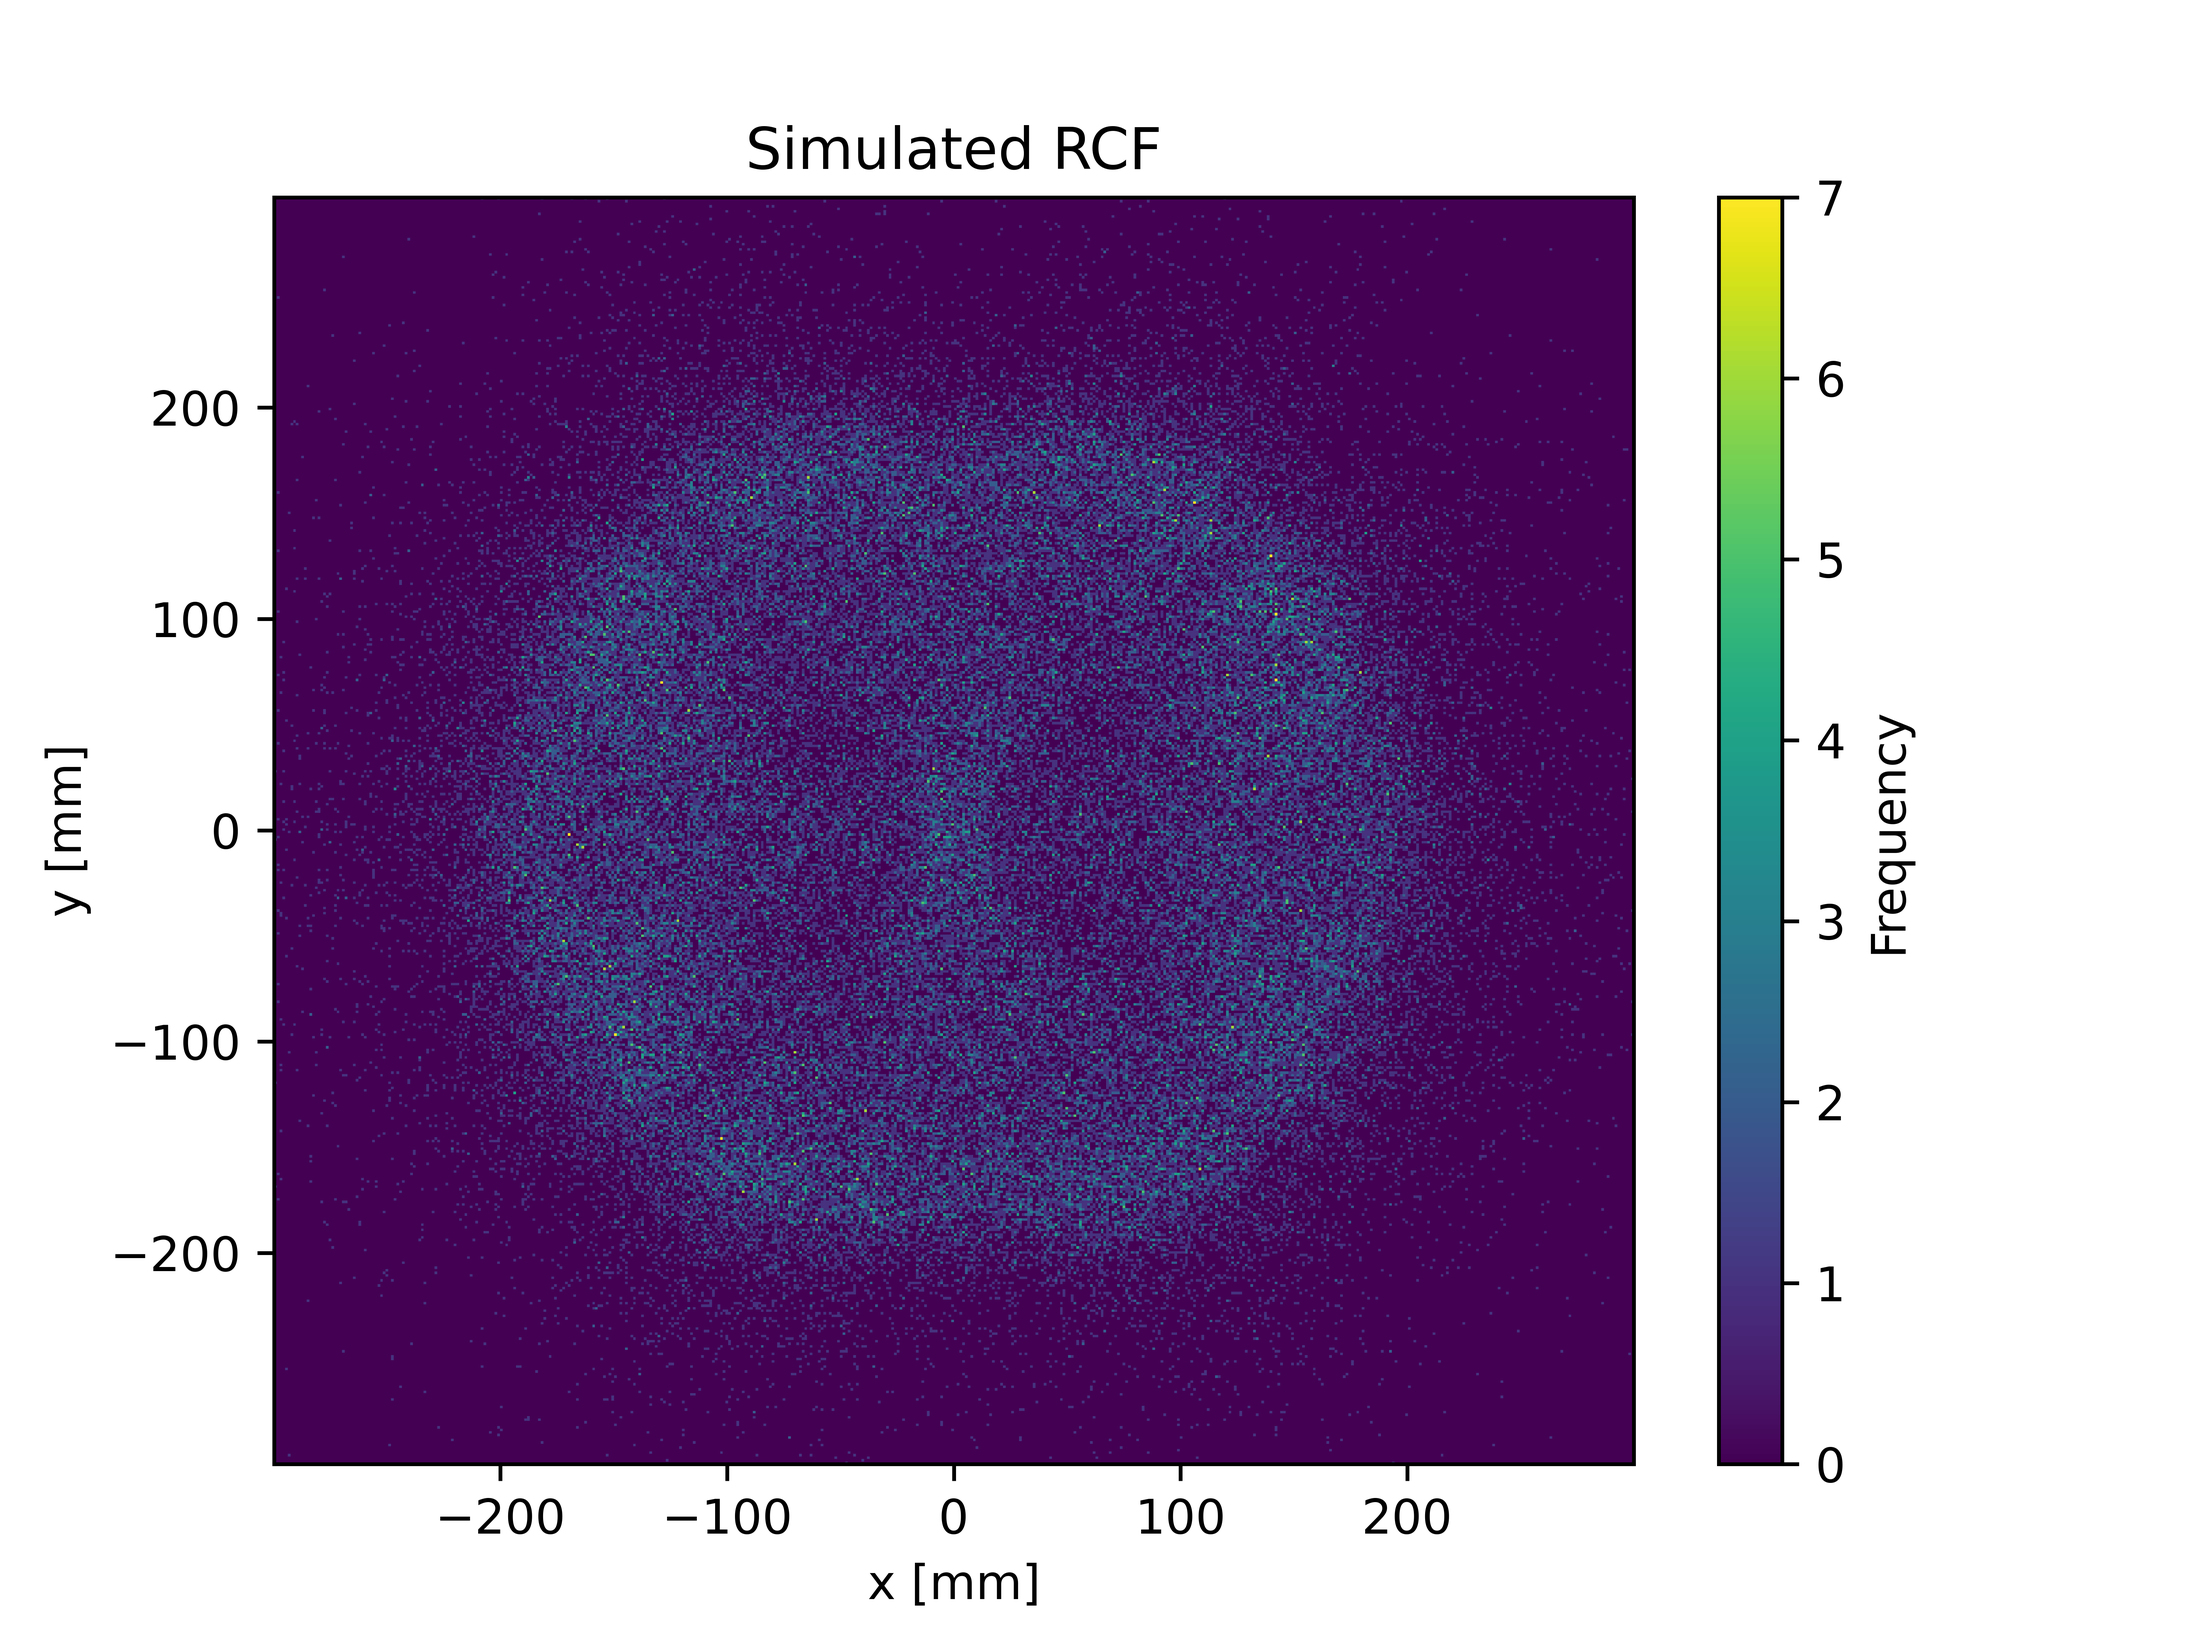
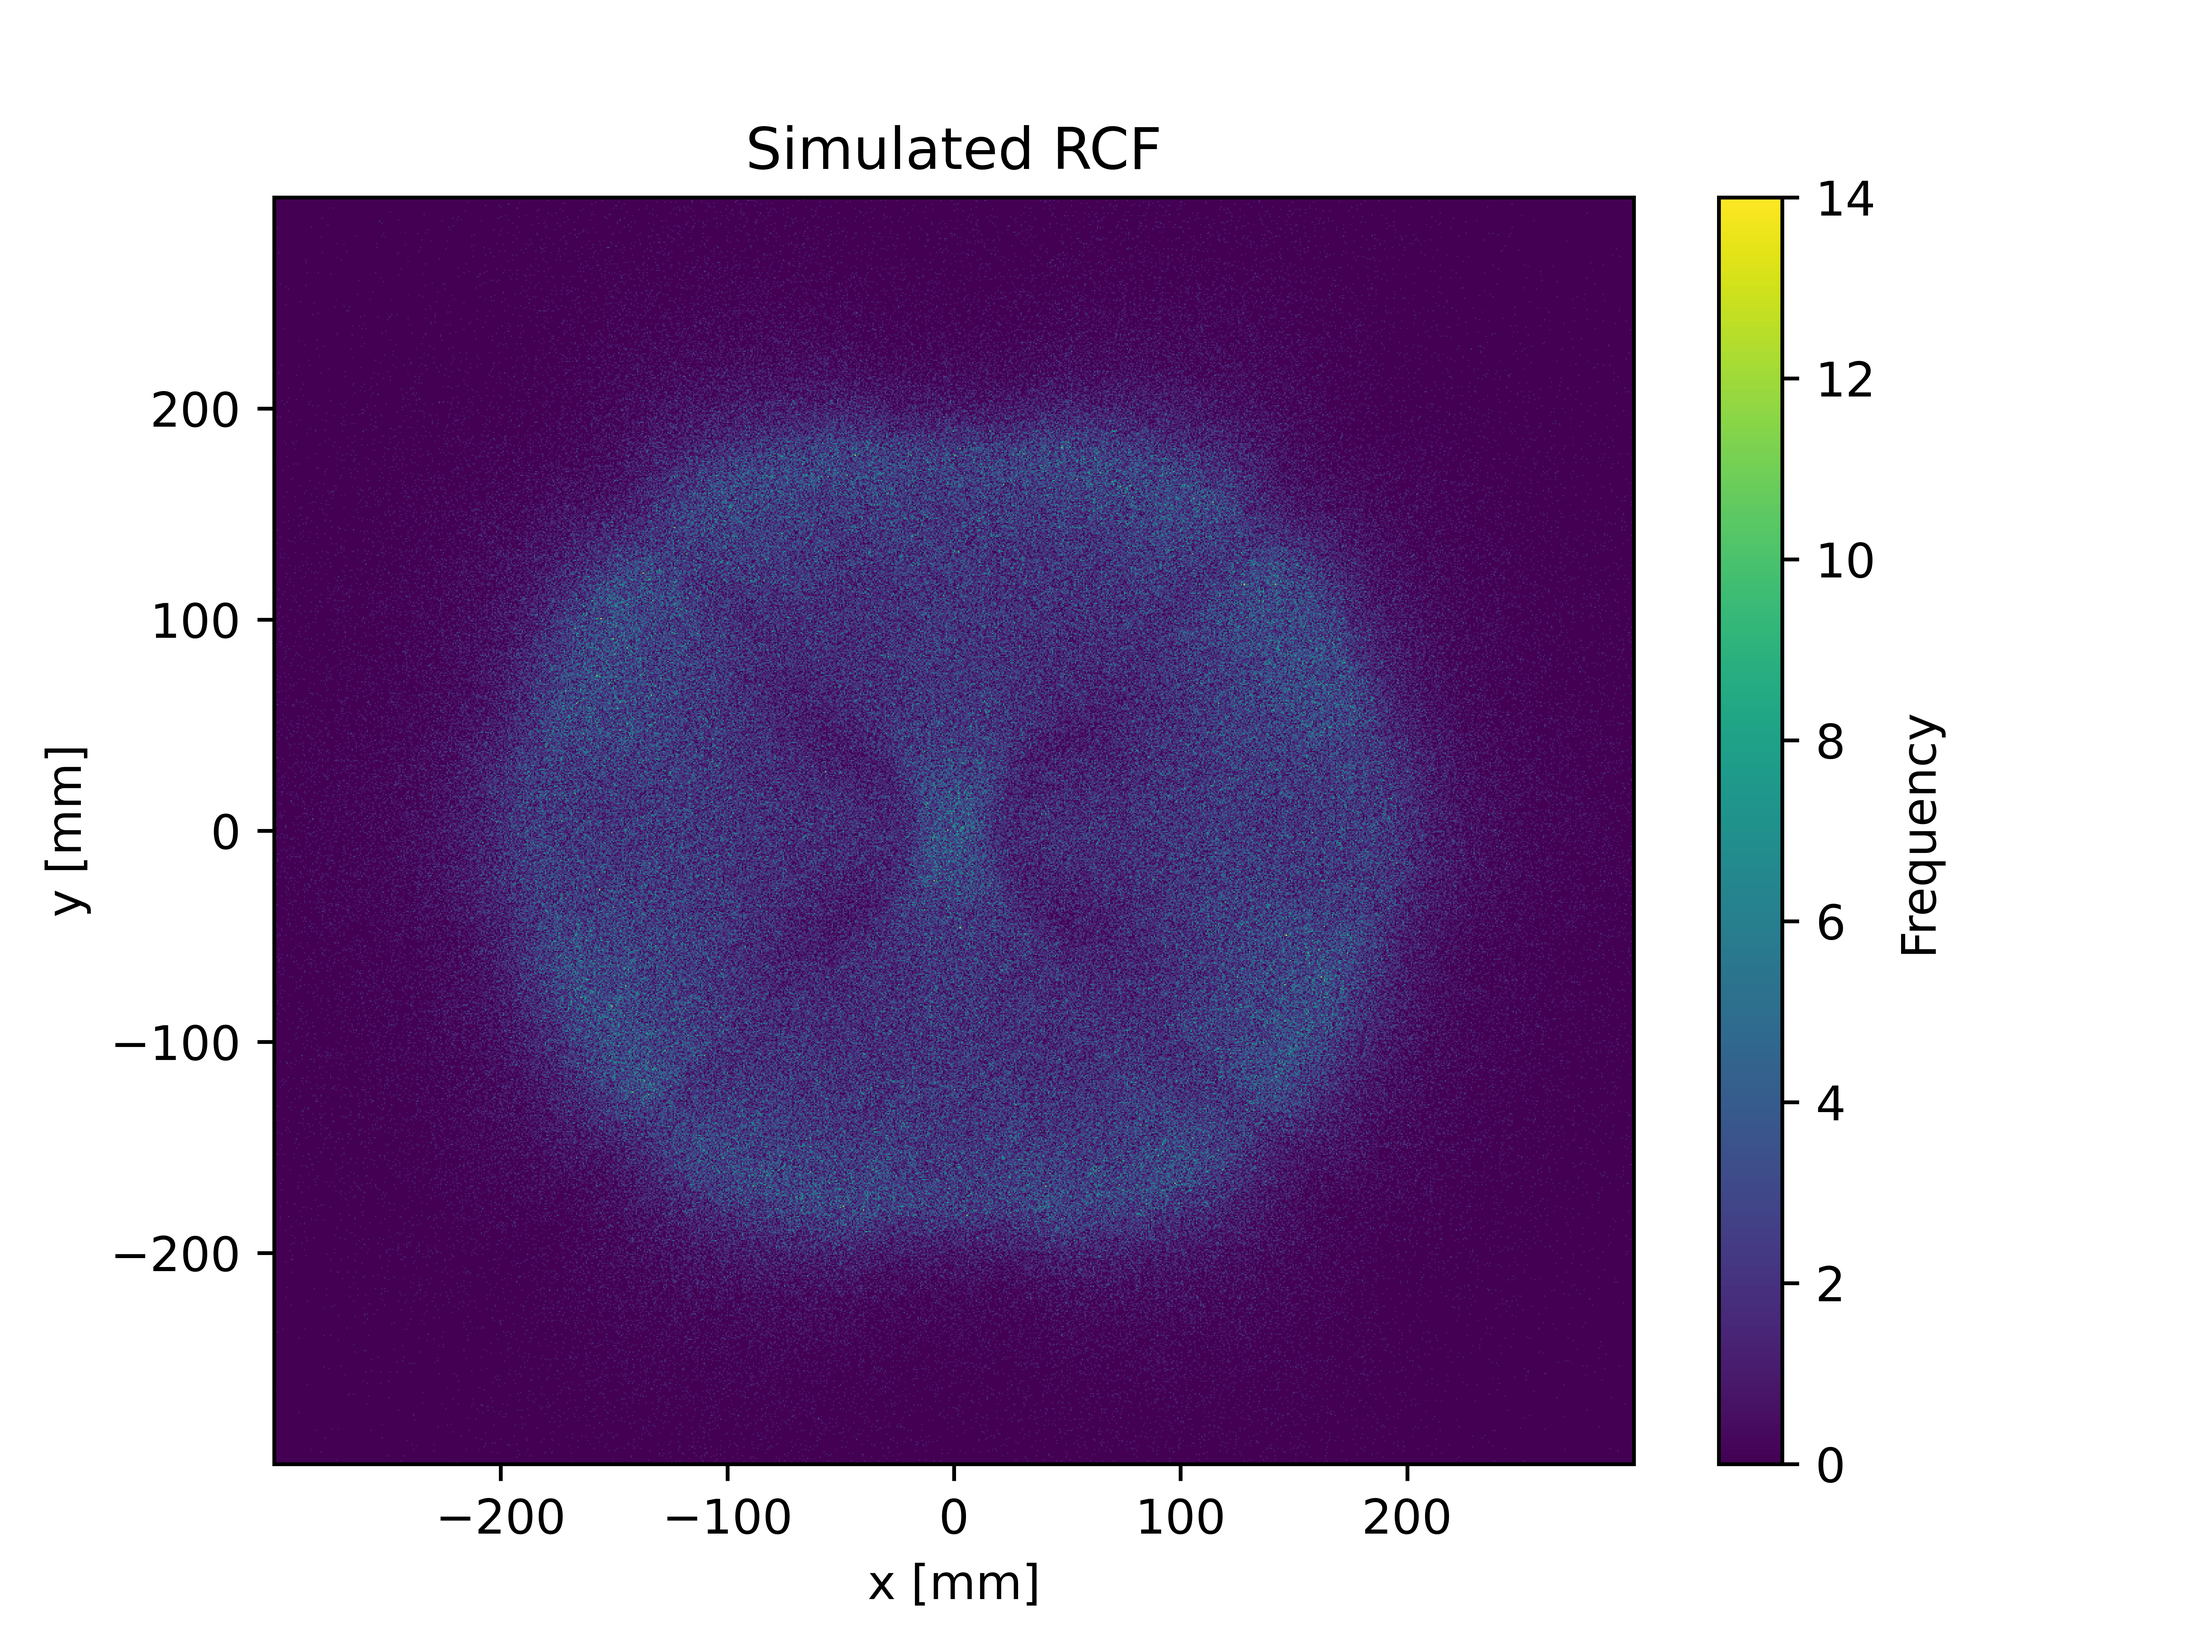
Ran 1 million

diff --git a/BB_RCF.py b/BB_RCF.py
@@ -251,7 +251,7 @@ class ProtonBeam():
         if plot:
             plt.figure()
             plt.title("Simulated RCF")
-            plt.hist2d(positions[:, 0]*1000, positions[:, 1]*1000, bins = 500)
+            plt.hist2d(positions[:, 0]*1000, positions[:, 1]*1000, bins = 1000)
             plt.xlabel("x [mm]")
             plt.ylabel("y [mm]")
             plt.colorbar(label = "Frequency")
@@ -260,6 +260,6 @@ class ProtonBeam():
         return positions
 
 if __name__ == "__main__":
-    sample_beam = ProtonBeam(1e5, 10, 'even')
-    sample_beam.plot_spectrum(500)
+    sample_beam = ProtonBeam(1e6, 10, 'even')
+    sample_beam.plot_spectrum(1000)
     position_arr = sample_beam.send_beam_mp()
